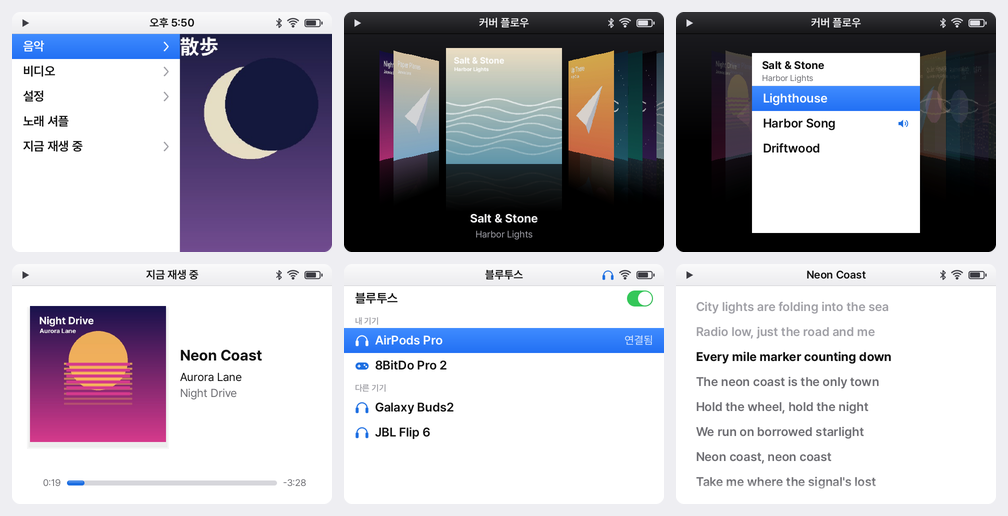
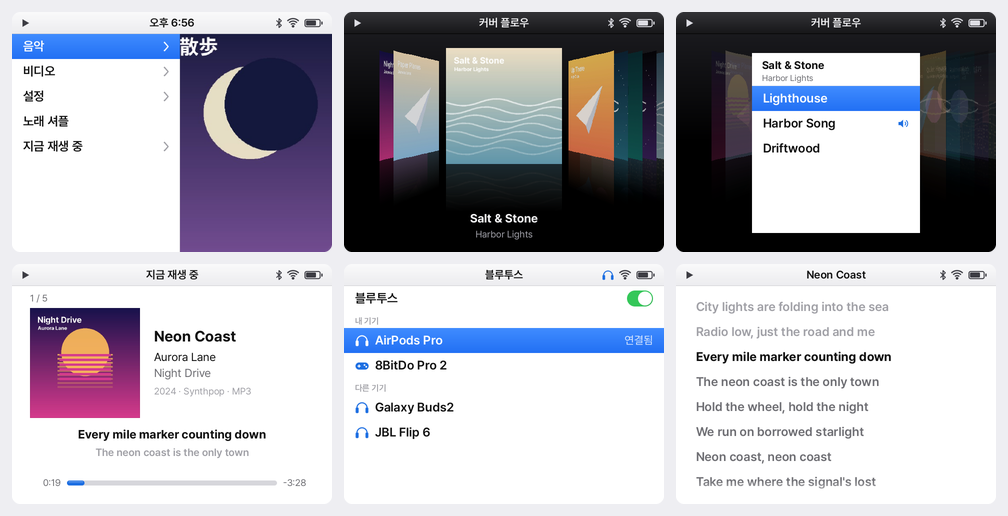
isopod: Now Playing says more about the song, and what is being sung
Under the cover were two translucent rectangles for a shadow, which
looked like neither a shadow nor a reflection. The cover has a hairline
edge now and, where there is room, a reflection of it that fades out.

The screen also shows where the song is in the queue and, under the
album, a line with its year, genre and kind of file. A song with timed
lyrics has a smaller cover and under it the line being sung and the one
after; all of them are still a press of Y away. Words without times stay
on that screen.

Changed region(s): [[0.0308, 0.5581, 0.2768, 0.8992], [0.1845, 0.062, 0.2153, 0.124], [0.1538, 0.031, 0.1845, 0.062]]

diff --git a/isopod/shell/src/views.c b/isopod/shell/src/views.c
@@ -237,13 +237,57 @@ static void draw_progress_row(Player *pl, int y)
     }
 }
 
-static void draw_nowplaying(int x)
+/* Copies a string the daemon sent, with value where it names a slot such as {time}. */
+static void fill_slot(char *out, size_t n, const char *words, const char *slot, const char *value)
+{
+    const char *at = strstr(words, slot);
+    if (at)
+        snprintf(out, n, "%.*s%s%s", (int)(at - words), words, value, at + strlen(slot));
+    else
+        snprintf(out, n, "%s", words);
+}
+
+/* The line being sung: the last one whose time has come, -1 before the first. */
+static int lyric_now(Page *p, double elapsed)
+{
+    int cur = -1;
+    for (int i = 0; i < p->count && i < p->time_count; i++)
+        if (p->times[i] <= elapsed + 0.25)
+            cur = i;
+    return cur;
+}
+
+/* Under a cover that has the room, its reflection, fading out the way it did on the iPod. */
+static void draw_reflection(const char *path, int x, int y, int size, int depth)
+{
+    SDL_Texture *t = image_or(path, "art-default", size, 0);
+    if (!t)
+        return;
+    SDL_FPoint top[2] = {{(float)x, (float)y}, {(float)(x + size), (float)y}};
+    SDL_FPoint bottom[2] = {{(float)x, (float)(y + depth)}, {(float)(x + size), (float)(y + depth)}};
+    float u[2] = {0, 1};
+    draw_strips(t, top, bottom, u, 2, 1, 1 - depth / (float)size, (SDL_Color){255, 255, 255, 72},
+                (SDL_Color){255, 255, 255, 0});
+}
+
+/* Now Playing: where the song is in the queue, the cover, what the song is, and under
+ * them either the line being sung with the one after it or, when the song has no timed
+ * words, the cover's reflection. */
+static void draw_nowplaying(Page *p, int x)
 {
     Player *pl = &app.status.player;
     if (!pl->count && !strcmp(pl->state, "stop")) {
         draw_text_center(FONT_SEMIBOLD, FONT_NP_LINE, S("nothing_playing", ""), x + SCREEN_W / 2,
                          CONTENT_Y + CONTENT_H / 2 - 16, C_TEXT2, SCREEN_W - 80);
         return;
+    }
+    if (pl->pos > 0 && pl->count > 0) {
+        char pos[16], count[16], some[64], place[64];
+        snprintf(pos, sizeof(pos), "%d", pl->pos);
+        snprintf(count, sizeof(count), "%d", pl->count);
+        fill_slot(some, sizeof(some), S("of", "{pos} / {count}"), "{pos}", pos);
+        fill_slot(place, sizeof(place), some, "{count}", count);
+        draw_text(FONT_REGULAR, FONT_SMALL, place, x + 36, CONTENT_Y + 12, C_TEXT2, 240);
     }
     int ix = x + SCREEN_W - 36;
     if (pl->repeat) {
@@ -253,22 +297,50 @@ static void draw_nowplaying(int x)
     if (pl->shuffle)
         draw_icon("shuffle", ix - 24, CONTENT_Y + 14, C_ACCENT);
 
-    const int art = 272, ax = x + 36, ay = CONTENT_Y + 40;
-    for (int s = 2; s >= 1; s--)
-        fill_rect(ax - s * 3, ay - s * 3 + 8, art + s * 6, art + s * 6, RGBA(0, 0, 0, 9));
+    bool words = p->count > 0 && p->time_count > 0;
+    const int art = words ? 220 : 272, ax = x + 36, ay = CONTENT_Y + 44;
     draw_image(pl->art, "art-default", ax, ay, art, 0);
+    Rgba edge = RGBA(0, 0, 0, 26);
+    fill_rect(ax, ay, art, 1, edge);
+    fill_rect(ax, ay + art - 1, art, 1, edge);
+    fill_rect(ax, ay + 1, 1, art - 2, edge);
+    fill_rect(ax + art - 1, ay + 1, 1, art - 2, edge);
 
     int tx = ax + art + 28, tw = x + SCREEN_W - 30 - tx;
     int title_lines = text_width(FONT_BOLD, FONT_NP_TITLE, pl->title) > tw ? 2 : 1;
-    bool has_album = pl->album && *pl->album;
-    int block = title_lines * 38 + 10 + 32 + (has_album ? 32 : 0);
+    bool has_artist = pl->artist && *pl->artist, has_album = pl->album && *pl->album;
+    bool has_note = p->note && *p->note;
+    int block = title_lines * 38 + 8 + (has_artist ? 32 : 0) + (has_album ? 32 : 0) + (has_note ? 34 : 0);
     int ty = ay + art / 2 - block / 2;
-    int lines = draw_text_wrap(FONT_BOLD, FONT_NP_TITLE, pl->title, tx, ty, tw, 38, 2, C_TEXT);
-    ty += lines * 38 + 10;
-    if (pl->artist && *pl->artist)
-        draw_text_wrap(FONT_REGULAR, FONT_NP_LINE, pl->artist, tx, ty, tw, 32, 1, C_TEXT);
-    if (has_album)
-        draw_text(FONT_REGULAR, FONT_NP_LINE, pl->album, tx, ty + 32, C_TEXT2, tw);
+    ty += draw_text_wrap(FONT_BOLD, FONT_NP_TITLE, pl->title, tx, ty, tw, 38, 2, C_TEXT) * 38 + 8;
+    if (has_artist) {
+        draw_text(FONT_REGULAR, FONT_NP_LINE, pl->artist, tx, ty, C_TEXT, tw);
+        ty += 32;
+    }
+    if (has_album) {
+        draw_text(FONT_REGULAR, FONT_NP_LINE, pl->album, tx, ty, C_TEXT2, tw);
+        ty += 32;
+    }
+    if (has_note)
+        draw_text(FONT_REGULAR, FONT_SMALL, p->note, tx, ty + 6, C_TEXT3, tw);
+
+    if (words) {
+        int cur = lyric_now(p, live_elapsed(pl)), next = cur + 1;
+        while (next < p->count && !(p->items[next].title && *p->items[next].title))
+            next++;
+        const char *sung = cur >= 0 ? p->items[cur].title : NULL;
+        const char *coming = next < p->count ? p->items[next].title : NULL;
+        int cx = x + SCREEN_W / 2, w = SCREEN_W - 72, ly = ay + art + 18;
+        if (sung && *sung) {
+            int rows = draw_text_wrap_center(FONT_BOLD, 24, sung, cx, ly, w, 34, 2, C_TEXT);
+            if (rows < 2 && coming)
+                draw_text_center(FONT_SEMIBOLD, 21, coming, cx, ly + 38, C_TEXT3, w);
+        } else if (coming) {
+            draw_text_center(FONT_SEMIBOLD, 21, coming, cx, ly + 19, C_TEXT3, w);
+        }
+    } else {
+        draw_reflection(pl->art, ax, ay + art + 2, art, 52);
+    }
 
     draw_progress_row(pl, SCREEN_H - 42);
 }
@@ -302,10 +374,7 @@ static void draw_lyrics(Page *p, int x)
     int w = SCREEN_W - 2 * LY_PAD;
     double e = live_elapsed(pl);
     bool synced = p->time_count > 0;
-    int cur = -1;
-    for (int i = 0; synced && i < p->count && i < p->time_count; i++)
-        if (p->times[i] <= e + 0.25)
-            cur = i;
+    int cur = lyric_now(p, e);
     int total = 0, cur_y = 0;
     for (int i = 0; i < p->count; i++) {
         if (i == cur)
@@ -416,12 +485,7 @@ static const char *bar_title(Page *p)
     localtime_r(&now, &tm);
     char hm[16];
     snprintf(hm, sizeof(hm), "%d:%02d", tm.tm_hour % 12 ? tm.tm_hour % 12 : 12, tm.tm_min);
-    const char *words = S(tm.tm_hour < 12 ? "clock_am" : "clock_pm", "{time}");
-    const char *slot = strstr(words, "{time}");
-    if (slot)
-        snprintf(clock, sizeof(clock), "%.*s%s%s", (int)(slot - words), words, hm, slot + 6);
-    else
-        snprintf(clock, sizeof(clock), "%s", hm);
+    fill_slot(clock, sizeof(clock), S(tm.tm_hour < 12 ? "clock_am" : "clock_pm", "{time}"), "{time}", hm);
     return clock;
 }
 
@@ -713,7 +777,7 @@ static void draw_page(Page *p, int x)
     if (!p)
         return;
     if (p->style == STYLE_NOWPLAYING)
-        draw_nowplaying(x);
+        draw_nowplaying(p, x);
     else if (p->style == STYLE_SLIDER)
         draw_slider(p, x);
     else if (p->style == STYLE_COVERFLOW)
@@ -1053,6 +1117,14 @@ int next_frame_delay(void)
     if (p && p->style == STYLE_NOWPLAYING && !strcmp(app.status.player.state, "play")) {
         double e = app.status.player.elapsed + (SDL_GetTicks() - app.status.player.elapsed_at) / 1000.0;
         delay = (int)((1.0 - (e - (int)e)) * 1000) + 5;
+        /* and the line of the words changes when its time comes, not on the second */
+        for (int i = 0; i < p->count && i < p->time_count; i++) {
+            if (p->times[i] > e + 0.25) {
+                int ms = (int)((p->times[i] - 0.25 - e) * 1000) + 5;
+                delay = ms < delay ? ms : delay;
+                break;
+            }
+        }
     }
     if (app.keyboard.active)
         delay = delay < 0 || delay > 530 ? 530 - (int)(SDL_GetTicks() % 530) + 1 : delay;

diff --git a/isopod/shell/src/nav.c b/isopod/shell/src/nav.c
@@ -58,6 +58,7 @@ void page_free(Page *p)
     SDL_free(p->empty_title);
     SDL_free(p->empty_text);
     SDL_free(p->empty_icon);
+    SDL_free(p->note);
     SDL_free(p);
 }
 
@@ -209,6 +210,8 @@ static void page_fill(Page *p, cJSON *pg)
     xfree(&p->empty_title);
     xfree(&p->empty_text);
     xfree(&p->empty_icon);
+    xfree(&p->note);
+    p->note = json_str(pg, "note");
     cJSON *empty = cJSON_GetObjectItemCaseSensitive(pg, "empty");
     if (empty) {
         p->empty_title = json_str(empty, "title");
@@ -331,13 +334,13 @@ void nav_push(const char *path, const char *title)
     }
     Page *p = page_new(path, title);
     if (!strcmp(path, "/nowplaying")) {
+        /* The player's state draws it at once; the song's details and words follow. */
         p->style = STYLE_NOWPLAYING;
         p->loaded = true;
         SDL_free(p->title);
         p->title = xstrdup(S("now_playing", "Now Playing"));
-    } else {
-        page_request(p);
     }
+    page_request(p);
     app.stack[app.depth++] = p;
     begin_transition(1, prev);
     app.dirty = true;
@@ -390,7 +393,7 @@ void nav_home(void)
 
 void nav_reload(Page *p)
 {
-    if (p && p->style != STYLE_NOWPLAYING)
+    if (p)
         page_request(p);
 }
 
@@ -929,7 +932,19 @@ void status_update(cJSON *state)
         set_str(&p->artist, pl, "artist");
         set_str(&p->album, pl, "album");
         set_str(&p->art, pl, "art");
+        char *was = p->file ? xstrdup(p->file) : NULL;
         set_str(&p->file, pl, "file");
+        if ((was != NULL) != (p->file != NULL) || (was && strcmp(was, p->file))) {
+            /* Another song: the words on Now Playing were the last one's. */
+            for (int i = 0; i < app.depth; i++) {
+                if (app.stack[i]->style == STYLE_NOWPLAYING) {
+                    items_free(app.stack[i]);
+                    app.stack[i]->time_count = 0;
+                    xfree(&app.stack[i]->note);
+                }
+            }
+        }
+        SDL_free(was);
         p->elapsed = json_num(pl, "elapsed", 0);
         p->elapsed_at = SDL_GetTicks();
         p->duration = json_num(pl, "duration", 0);

diff --git a/isopod/daemon/tests/test_protocols.py b/isopod/daemon/tests/test_protocols.py
@@ -195,6 +195,34 @@ class NoAlbumTest(unittest.IsolatedAsyncioTestCase):
         self.assertEqual(await opened(nobody, "all"), ["Nameless", "Track 1"])
 
 
+class NowPlayingTest(unittest.IsolatedAsyncioTestCase):
+    """What Now Playing shows beside the cover: a line about the song, and words that are timed."""
+
+    async def now_playing(self, file, **tags):
+        class NoApp:
+            t = Translator("en")
+            state = State(lambda snap: None)
+
+        d = tempfile.mkdtemp()
+        with open(os.path.join(d, "timed.lrc"), "w") as f:
+            f.write("[00:01.00]One\n[00:05.00]Two\n")
+        with open(os.path.join(d, "plain.txt"), "w") as f:
+            f.write("Words without times\n")
+        app = NoApp()
+        app.music = Music(None, app.state, d, music_dir=d)
+        app.music._by_file = {file: {"year": "", "genre": "", **tags}}
+        app.state.data["player"]["file"] = file
+        page = await Pages(app).build("/nowplaying")
+        return page["note"], [i["title"] for i in page["items"]], page["times"]
+
+    async def test_timed_words_and_a_line_about_the_song(self):
+        self.assertEqual(await self.now_playing("timed.flac", year="2019", genre="Jazz"),
+                         ("2019 · Jazz · FLAC", ["One", "Two"], [1.0, 5.0]))
+
+    async def test_words_without_times_stay_on_their_own_screen(self):
+        self.assertEqual(await self.now_playing("plain.mp3"), ("MP3", [], None))
+
+
 class CoverArtTest(unittest.IsolatedAsyncioTestCase):
     async def test_songs_sharing_a_folder_keep_their_own_album_covers(self):
         class Pictures:

diff --git a/isopod/daemon/isopod/music.py b/isopod/daemon/isopod/music.py
@@ -45,6 +45,7 @@ class Song(dict):
             albumartist=rec.get("albumartist") or artist,
             album=rec.get("album") or "",
             genre=rec.get("genre") or "",
+            year=(rec.get("date") or "")[:4],
             track=_int(rec.get("track")),
             disc=_int(rec.get("disc")),
             duration=_float(rec.get("duration") or rec.get("time")),
@@ -173,6 +174,13 @@ class Music:
     def artists(self):
         names = {s["albumartist"] for s in self.songs}
         return sorted(names, key=sort_key)
+
+    def details(self):
+        """A line about the song playing: its year, its genre and the kind of file it is."""
+        uri = self.state.get("player").get("file") or ""
+        song = self._by_file.get(uri) or {}
+        kind = os.path.splitext(uri)[1][1:].upper()
+        return " · ".join(part for part in (song.get("year"), song.get("genre"), kind) if part)
 
     def _lyric_files(self, uri):
         """The .lrc, then the .txt, named like the song. Names are compared the way they

diff --git a/isopod/daemon/isopod/pages.py b/isopod/daemon/isopod/pages.py
@@ -377,7 +377,12 @@ class Pages:
                         [item(f"l{i}", line, "none") for i, line in enumerate(lines)],
                         style="lyrics", times=times, live=True,
                         empty=empty("music", self.t("no_lyrics")))
-        return {"path": path, "title": self.t("now_playing"), "style": "nowplaying", "items": []}
+        # Beside the cover: a line about the song, and its words where they follow the song.
+        found = await self.app.music.lyrics()
+        lines, times = found if found and found[1] else ([], None)
+        return {"path": path, "title": self.t("now_playing"), "style": "nowplaying", "live": True,
+                "items": [item(f"l{i}", line, "none") for i, line in enumerate(lines)], "times": times,
+                "note": self.app.music.details()}
 
     async def now_playing_options(self):
         t = self.t

diff --git a/isopod/daemon/isopod/app.py b/isopod/daemon/isopod/app.py
@@ -38,7 +38,7 @@ class App:
         self.server = Server(args.socket, self._handle)
         self.system = System(sim=self.sim)
         self.music = Music(MPD(args.mpd, args.mpd_port), self.state, args.cache, music_dir=args.music)
-        self.music.song_changed = lambda: self.page_changed("/nowplaying/lyrics")
+        self.music.song_changed = lambda: self.page_changed("/nowplaying", "/nowplaying/lyrics")
         self.bluetooth = Bluetooth(FakeBackend() if self.sim else RavelBackend(),
                                    self.state, self.settings, self.t, self, self.system)
         self.wifi = Wifi(FakeWifi() if self.sim else Nmcli(), self.state, self.t, self)

diff --git a/isopod/shell/src/shell.h b/isopod/shell/src/shell.h
@@ -26,7 +26,7 @@ typedef struct Page {
     Item *items;
     int count;
     bool loaded, loading_shown, tall, art_rows, live, index, sheet, split;
-    char *empty_title, *empty_text, *empty_icon;
+    char *empty_title, *empty_text, *empty_icon, *note;
     int value, min, max, step;
     int sel;
     float scroll, scroll_from, scroll_to;

diff --git a/isopod/README.md b/isopod/README.md
@@ -11,9 +11,12 @@ replaces the front end with a small shell built around your music.
 - **Music** from `/storage/music`: Cover Flow, Playlists, Artists, Albums, Songs, Genres,
   Up Next and Search. Playback carries on in the background, whatever else is open, and a
   sleep timer in Now Playing stops it for you.
-- **Lyrics** in Now Playing: timed lyrics follow the line being sung, plain ones scroll.
-  They come from an `.lrc` or `.txt` file beside the song and named like it (`Song.mp3`,
-  `Song.lrc`), or from the song's own tags.
+- **Now Playing** shows where the song is in the queue, its cover, title, artist and
+  album, and a line with its year, genre and kind of file. With timed lyrics the line
+  being sung and the one after it stand under the cover; without, the cover's reflection.
+- **Lyrics**, all of them, are a press of Y away: timed lyrics follow the line being sung,
+  plain ones scroll. They come from an `.lrc` or `.txt` file beside the song and named
+  like it (`Song.mp3`, `Song.lrc`), or from the song's own tags.
 - **Covers** come from each song's own artwork, one per album, or from a `cover.jpg` in
   its folder.
 - **Search** with an on-screen keyboard that types Hangul as well as Latin; bare initials
